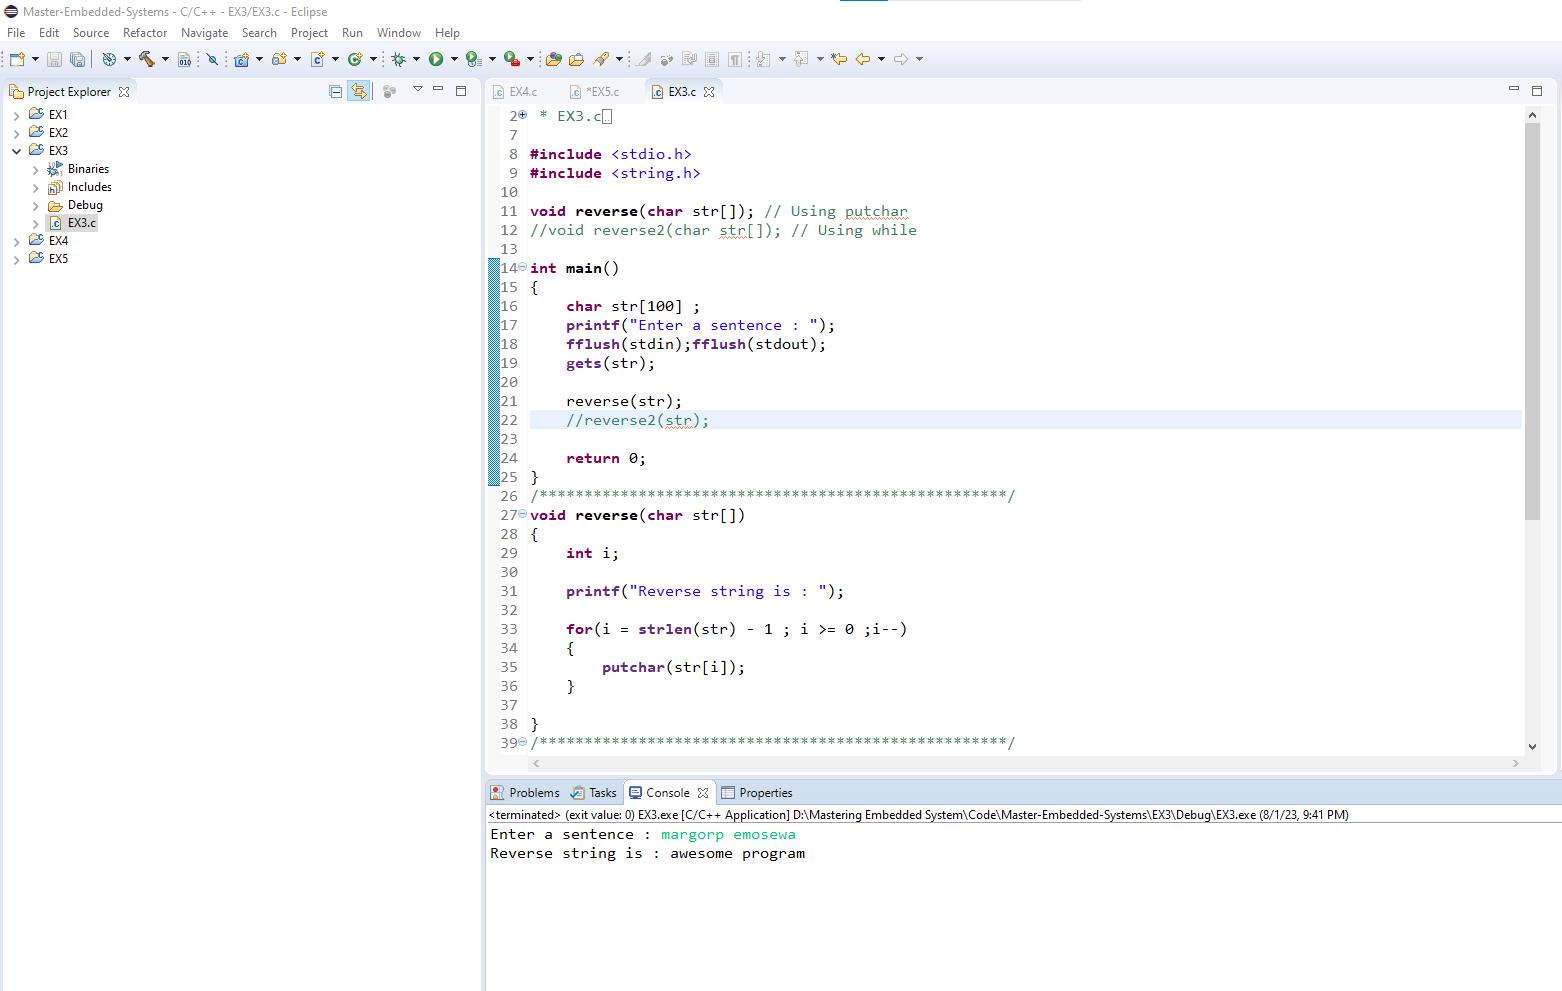
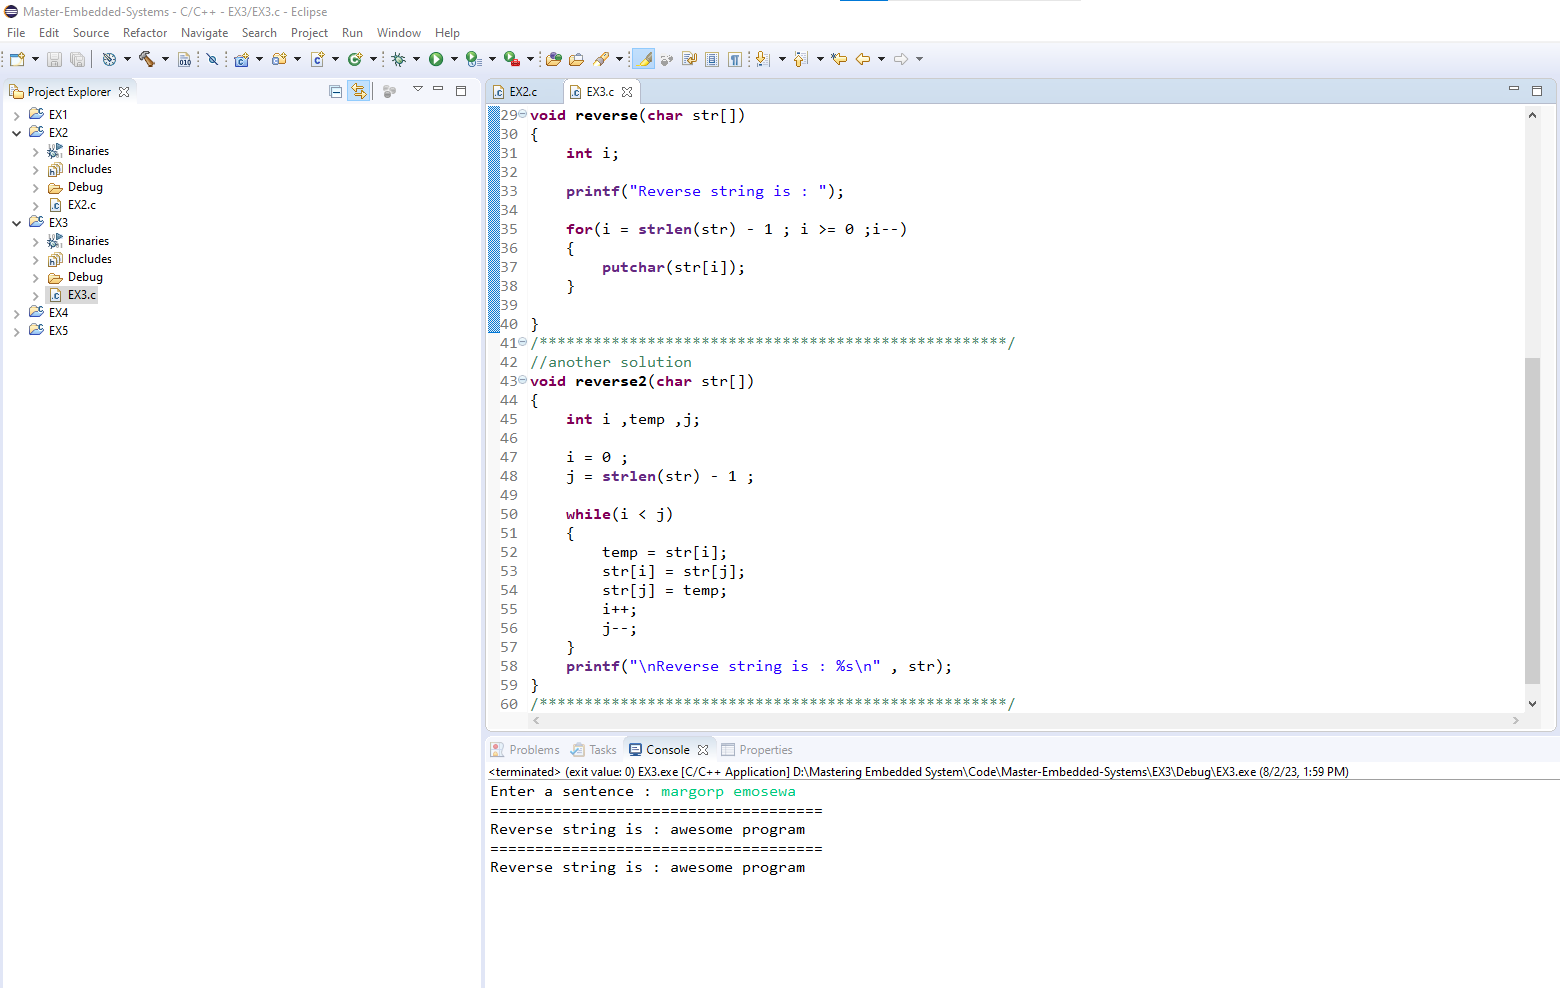
EX3 ==>> Assignment 4 (Reverse a Sentence)

Changed region(s): [[0.1231, 0.0, 1.0, 0.8806], [0.0, 0.0911, 0.0923, 0.334]]

diff --git a/Unit 2/Lesson 5.C_Function/Homework 4/Code/EX3/EX3 ( While & putchar) method/EX3.c b/Unit 2/Lesson 5.C_Function/Homework 4/Code/EX3/EX3 ( While & putchar) method/EX3.c
@@ -18,7 +18,9 @@ int main()
 	fflush(stdin);fflush(stdout);
 	gets(str);
 
+	printf("=====================================\n");
 	reverse(str);
+	printf("\n=====================================");
 	reverse2(str);
 
 	return 0;
@@ -55,3 +57,4 @@ void reverse2(char str[])
 	}
 	printf("\nReverse string is : %s\n" , str);
 }
+/****************************************************/
